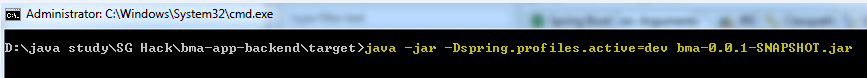
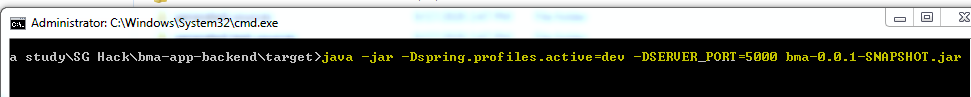
feat: updated docs

diff --git a/docs/README.md b/docs/README.md
@@ -75,7 +75,7 @@ application you can also create a group like team names under differenet categor
 
    ![mvn console](img/bmvn.png)
    
-- step6 navigate into target directory under bma-app-backend open terminal run **java -jar -Dspring.profiles.active=dev <jarname>**
+- step6 navigate into target directory under bma-app-backend open terminal run **java -jar -Dspring.profiles.active=dev -DSERVER_PORT=portnumber <jarname>**
 
    ![java console](img/sjar.png)
    ![java console](img/sblog.png)
@@ -85,7 +85,7 @@ application you can also create a group like team names under differenet categor
 
 ### Testing with Openapi
 
-- step1 open your browser and type **http://localhost:9090/swagger-ui.html** and you should able to see message as shown in below image
+- step1 open your browser and type **http://localhost:9090/swagger-ui.html** or **http://bma-env-1.eba-wgdegdsk.us-east-1.elasticbeanstalk.com/swagger-ui/index.html?configUrl=/BMA-docs/swagger-config** and you should able to see message as shown in below image
 
    ![open api console](img/api.png)
    
